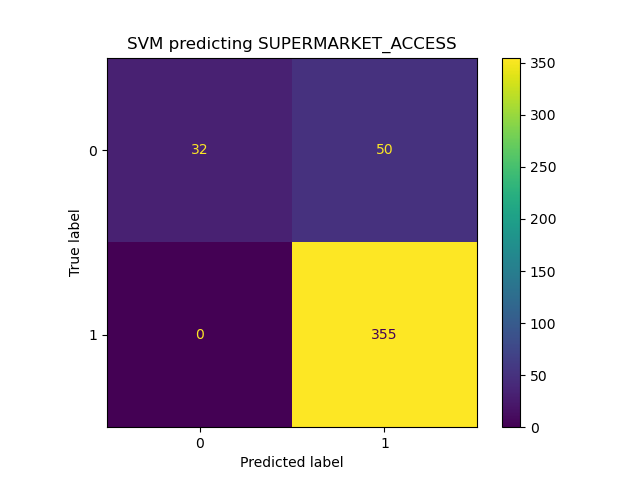
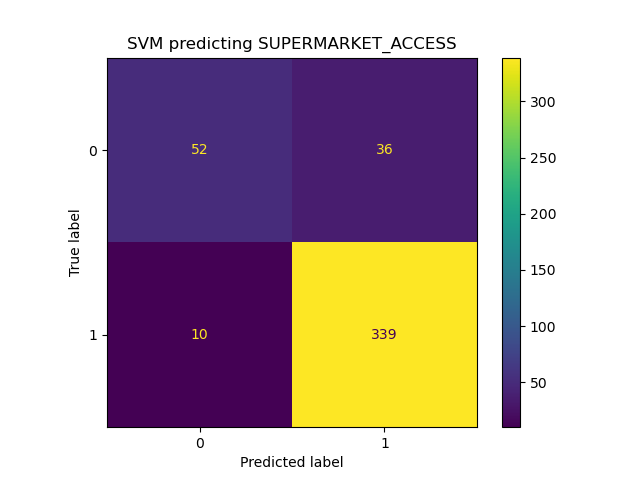
newest images

diff --git a/run_models.py b/run_models.py
@@ -22,7 +22,7 @@ import tensorflow as tf
 
     # label_col = util.opt
 
-def run_model(clf, clf_name, X_train, X_test, y_train, y_test, label_name):
+def run_model(clf, clf_name, X_train, X_test, y_train, y_test, label_name, kernel = None):
     
     clf.fit(X_train, y_train)
 
@@ -33,17 +33,25 @@ def run_model(clf, clf_name, X_train, X_test, y_train, y_test, label_name):
     accuracyLog = accuracy_score(y_test, y_pred)
     print(f'{clf_name} accuracy {label_name}:', accuracyLog*100, "%")
 
-    create_cm(y_test, y_pred, clf, clf_name , label_name)
+    create_cm(y_test, y_pred, clf, clf_name , label_name, kernel)
 
-    return 0
+    if clf_name == "log_reg" or kernel:
+        return clf.coef_
+    else:
+        return 0
 
-def create_cm(y_test, y_pred, clf, clf_name, label_name):
+def create_cm(y_test, y_pred, clf, clf_name, label_name, kernel = ""):
     cnf_matrix = metrics.confusion_matrix(y_test, y_pred)
     print(cnf_matrix)
     disp = ConfusionMatrixDisplay(confusion_matrix=cnf_matrix)
     disp.plot()
-    plt.title(f'{clf_name} predicting {label_name}')
-    plt.savefig(f'cm_{clf_name}_{label_name}.png')
+    kernel_txt = ""
+    if kernel:
+        kernel_txt = f' Kernel: {kernel}'
+    else:
+        kernel = ""
+    plt.title(f'{clf_name} predicting {label_name} {kernel_txt}')
+    plt.savefig(f'cm_{clf_name}_{label_name}_{kernel}.png')
     return cnf_matrix
 
     # train_step(logreg, X_train, X_test, y_train,
@@ -72,10 +80,12 @@ def main():
         # print(y_train)
         print(f'Logistic Regression Results for Label {i}')
         clf = LogisticRegression(random_state=16, max_iter=500)
-        run_model( clf, "log_reg", X_train, X_test, y_train, y_test, i)
+        print(run_model( clf, "log_reg", X_train, X_test, y_train, y_test, i))
         print(f'SVM Results for Label {i}')
-        clf = svm.SVC()
-        run_model( clf, "SVM", X_train, X_test, y_train, y_test, i)
+
+        for i in ['linear', 'rbf']:
+            clf = svm.SVC(kernel=i)
+            print(run_model( clf, "SVM", X_train, X_test, y_train, y_test, i))
         # print(f'FC NN Results for Label {i}')
         # train_data = tf.data.Dataset.from_tensor_slices((X_train, y_train)).batch(32)
 
